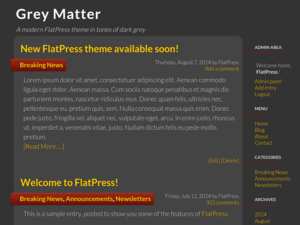
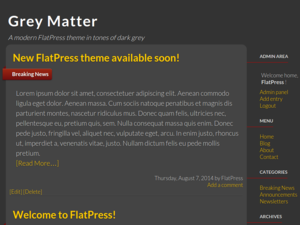
Update preview and readme for 1.0

diff --git a/README.md b/README.md
@@ -1,6 +1,6 @@
 ##GreyMatter
-####v0.1
-A modern FlatPress theme in tones of dark grey, inspired by a theme available for the Jekyll blog engine. It feels actual and is almost responsive. 
+####v1.0
+A modern FlatPress theme in tones of dark grey, inspired by a theme available for the Jekyll blog engine. It feels actual, modern and it is responsive: It looks and works great on mobile devices. 
 
 ###Preview
 ![Alt text](http://img.marcthibeault.com/misc/GreyMatter.png "Optional title")
